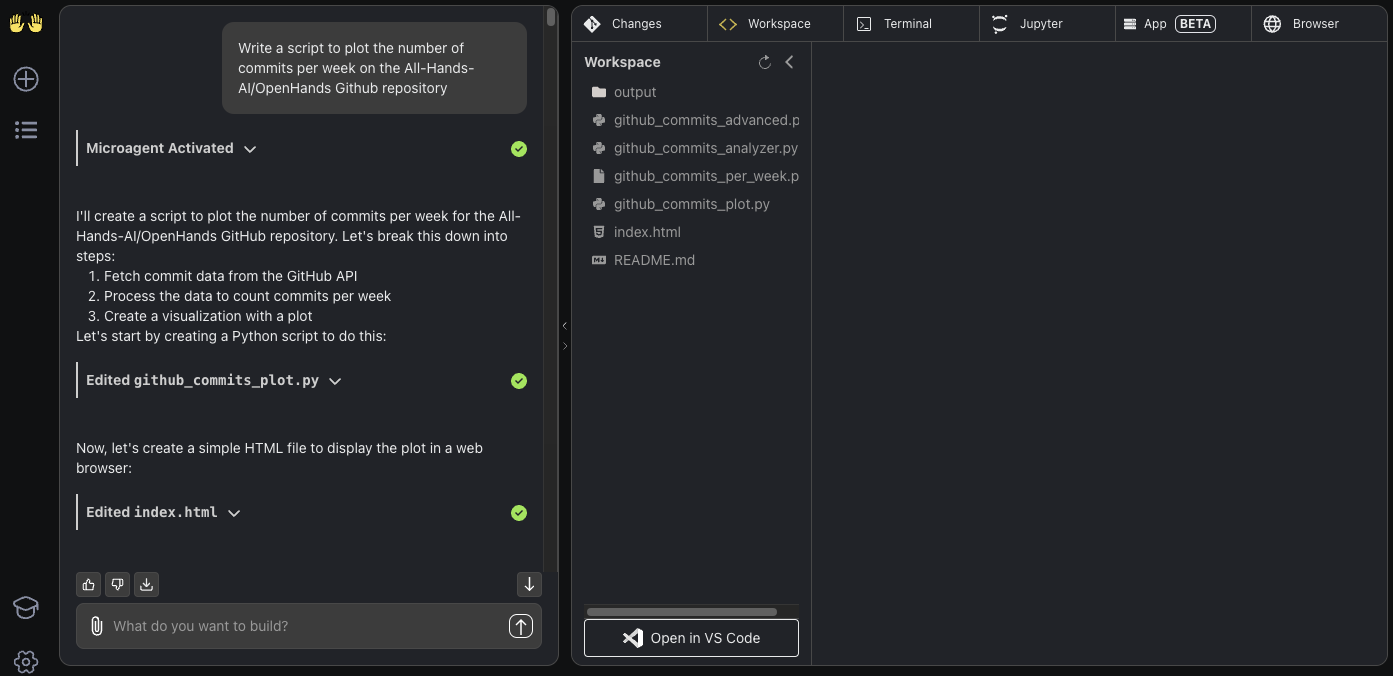
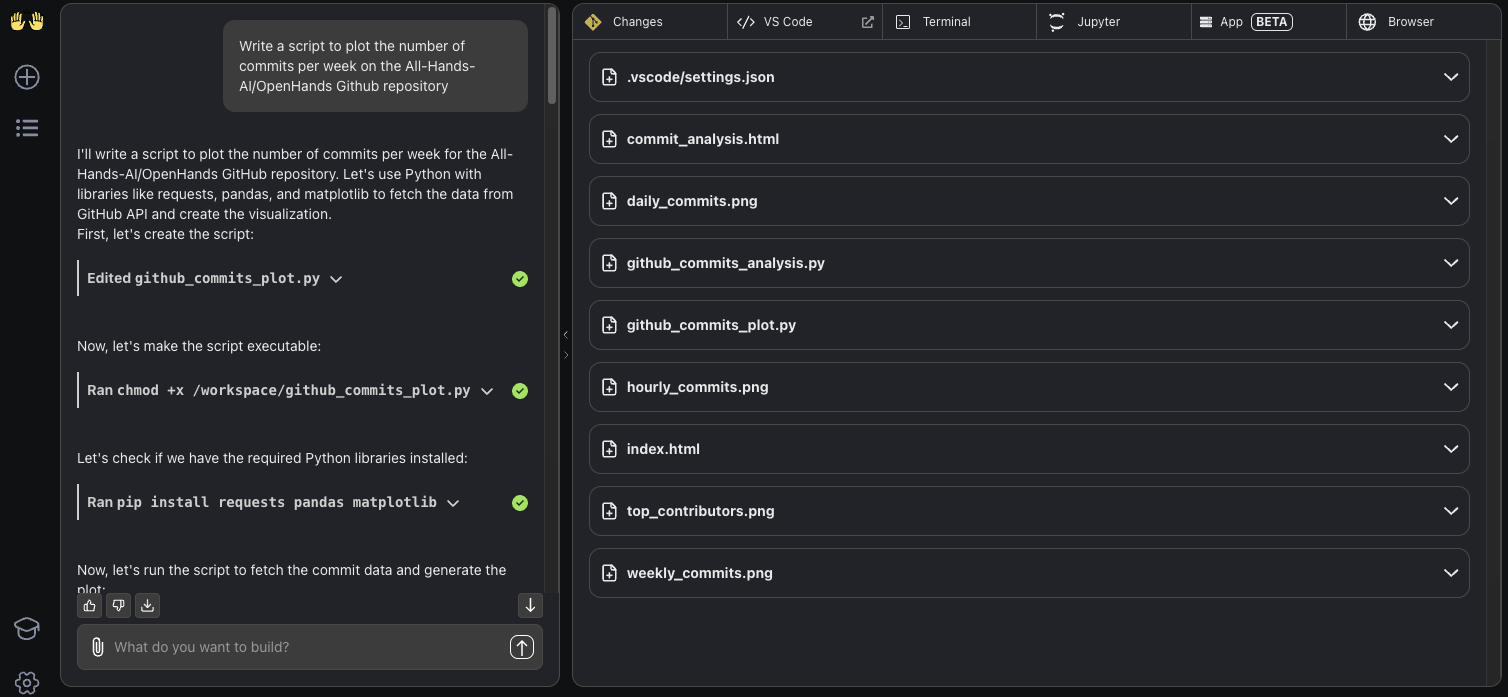
Update OpenHands Key Features page (#8179)

diff --git a/docs/modules/usage/key-features.md b/docs/modules/usage/key-features.md
@@ -9,11 +9,9 @@
 ### Changes
 - Shows the file changes performed by OpenHands.
 
-### Workspace
-- Browse project files and directories.
-- Use the `Open in VS Code` option to:
-  * Modify files
-  * Upload and download files
+### VS Code
+- Embedded VS Code for browsing and modifying files.
+- Can also be used to upload and download files.
 
 ### Terminal
 - A space for OpenHands and users to run terminal commands.
